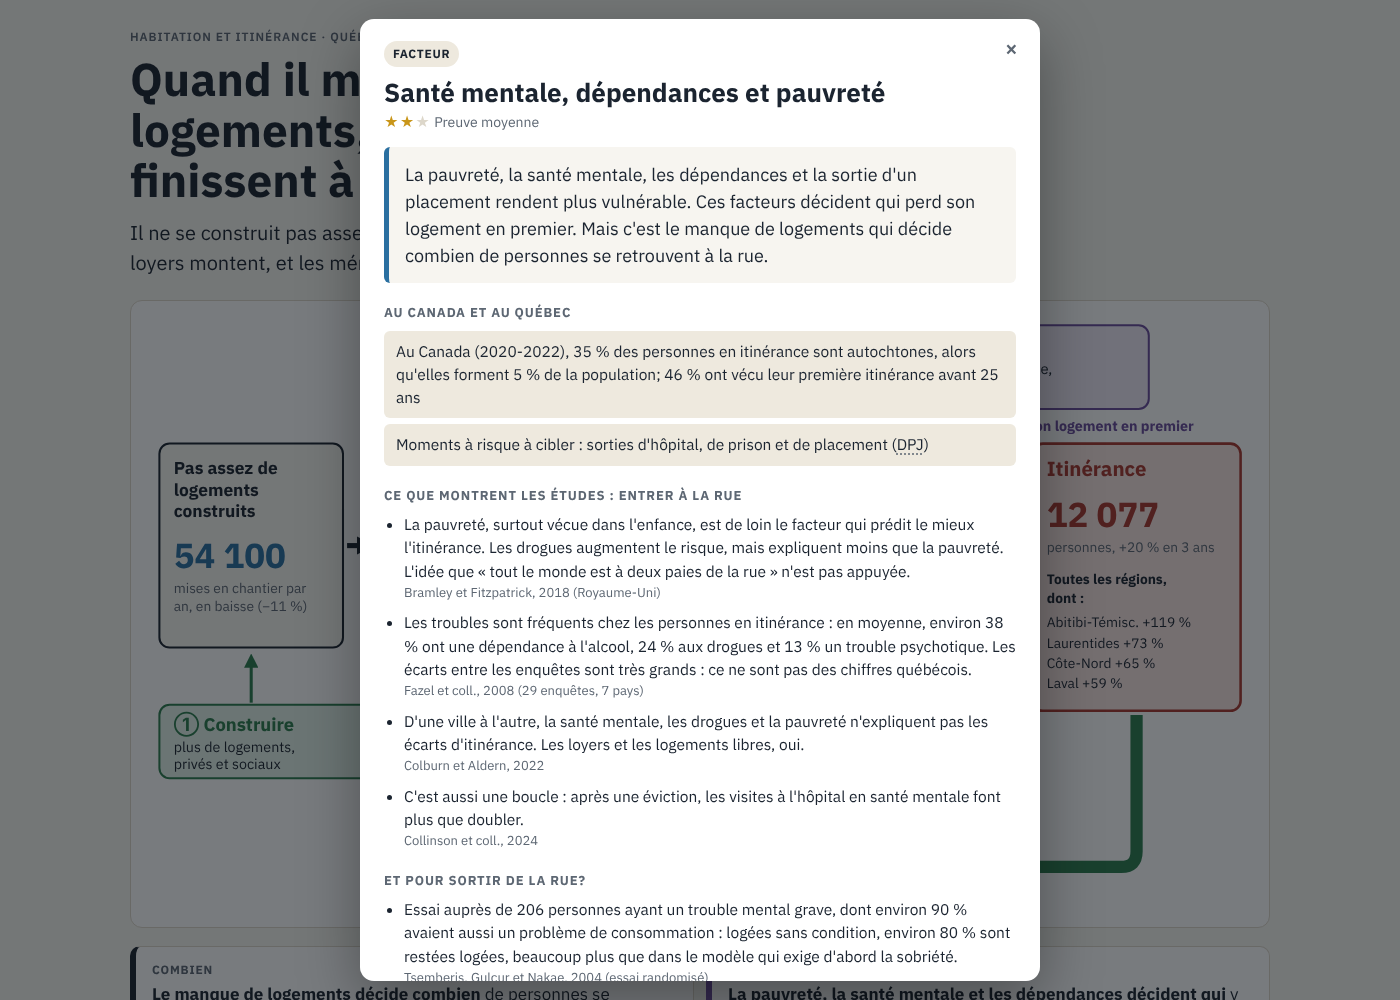
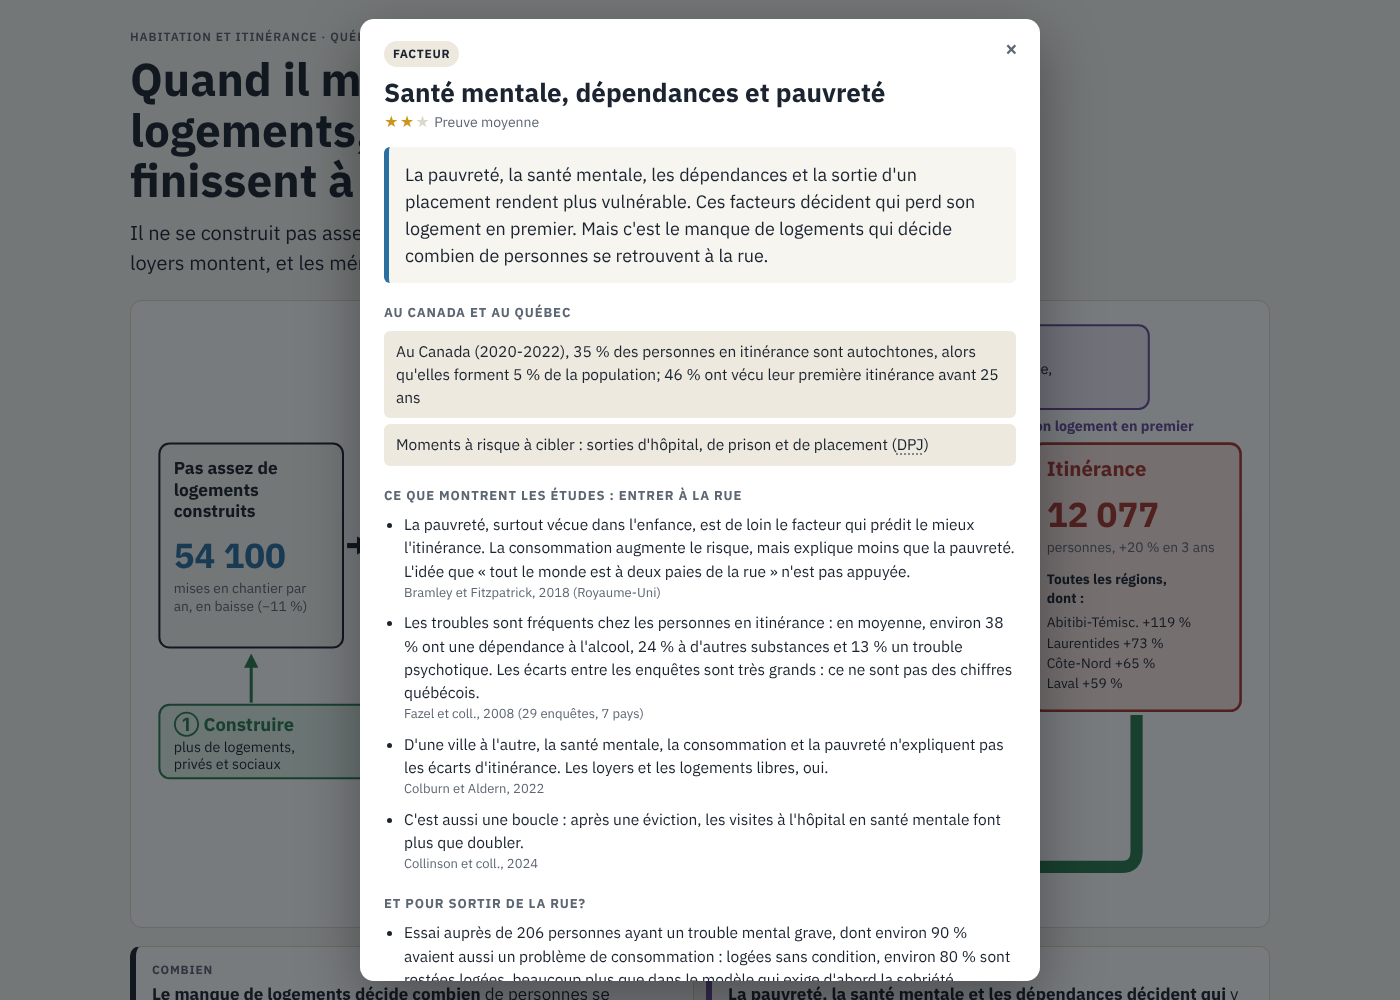
Remplacer « drogues » par « consommation » dans les fiches
Claude-Session: https://claude.ai/code/session_01BzgsPdMM9i4cuZ6TsAMrPi

Changed region(s): [[0.2764, 0.62, 0.7371, 0.992], [0.3686, 0.527, 0.7371, 0.558]]

diff --git a/index.html b/index.html
@@ -322,7 +322,7 @@ fcb:{kind:"Lien",title:"Ne peut plus acheter, reste locataire",stars:0,
  etudes:[["À vérifier par une recherche ciblée si ce lien devient important pour la décision.","—"]],
  src:"Aucune dans les études recensées",links:["prop","libres"]},
 f5:{kind:"Étape 3",title:"Les loyers montent, l'itinérance aussi",stars:2,
- clair:"Pourquoi une région a-t-elle plus d'itinérance qu'une autre? Surtout à cause du prix des loyers et du manque de logements libres, plus que de la drogue, de la santé mentale ou du climat.",
+ clair:"Pourquoi une région a-t-elle plus d'itinérance qu'une autre? Surtout à cause du prix des loyers et du manque de logements libres, plus que de la consommation, de la santé mentale ou du climat.",
  qc:["Logement de 2 chambres : 1 273 $ par mois en moyenne; +7,2 % en un an pour les mêmes logements","Hausse de loyer suggérée par le TAL pour 2026-2027 : 3,1 % (nouvelle formule)","Là où il reste moins de 1 % de logements libres (Abitibi-Témiscamingue, Côte-Nord), l'itinérance a bondi de 119 % et de 65 %"],
  etudes:[["Chaque hausse de 100 $ du loyer médian va avec environ 15 % plus d'itinérance dans les grandes villes américaines, et 39 % en banlieue et en région.","Byrne et coll., 2013"],["Un rapport du Congrès américain arrive à environ +9 % pour chaque 100 $ de loyer de plus.","GAO, 2020"],["Détroit, une ville pauvre, a moins d'itinérance que Seattle, une ville chère.","Colburn et Aldern, 2022"],["Ce sont des comparaisons entre villes et régions : un lien solide, mais pas une preuve de cause à effet.","—"]],
  src:"SCHL; TAL; Byrne et coll. 2013; GAO 2020; Colburn & Aldern 2022",links:["libres","f6","rue","aide","control"]},
@@ -403,13 +403,13 @@ taux:{kind:"Solution",cat:"no",title:"Baisser les taux d'intérêt",stars:2,shor
 camps:{kind:"Solution",cat:"no",title:"Démanteler les campements",stars:1,short:"Déplace les gens sans les loger.",
  clair:"Déplacer les gens sans leur offrir de logement ne les sort pas de la rue. Une étude projette même une hausse des décès.",
  qc:["1 887 personnes dehors ou en campement (16 %), la forme d'itinérance qui augmente le plus vite"],
- etudes:[["Selon une projection dans 23 villes américaines, les déplacements forcés pourraient causer de 15 à 25 % des décès sur 10 ans chez les personnes sans abri qui s'injectent des drogues. C'est une projection, pas une observation.","Barocas et coll., 2023, JAMA"]],
+ etudes:[["Selon une projection dans 23 villes américaines, les déplacements forcés pourraient causer de 15 à 25 % des décès sur 10 ans chez les personnes sans abri qui consomment par injection. C'est une projection, pas une observation.","Barocas et coll., 2023, JAMA"]],
  src:"Barocas et coll. 2023; MSSS 2025",links:["rue","f8"]},
 vuln:{kind:"Facteur",title:"Santé mentale, dépendances et pauvreté",stars:2,qcTitle:"Au Canada et au Québec",
  clair:"La pauvreté, la santé mentale, les dépendances et la sortie d'un placement rendent plus vulnérable. Ces facteurs décident qui perd son logement en premier. Mais c'est le manque de logements qui décide combien de personnes se retrouvent à la rue.",
  qc:["Au Canada (2020-2022), 35 % des personnes en itinérance sont autochtones, alors qu'elles forment 5 % de la population; 46 % ont vécu leur première itinérance avant 25 ans","Moments à risque à cibler : sorties d'hôpital, de prison et de placement (DPJ)"],
- etudes:[["La pauvreté, surtout vécue dans l'enfance, est de loin le facteur qui prédit le mieux l'itinérance. Les drogues augmentent le risque, mais expliquent moins que la pauvreté. L'idée que « tout le monde est à deux paies de la rue » n'est pas appuyée.","Bramley et Fitzpatrick, 2018 (Royaume-Uni)"],["Les troubles sont fréquents chez les personnes en itinérance : en moyenne, environ 38 % ont une dépendance à l'alcool, 24 % aux drogues et 13 % un trouble psychotique. Les écarts entre les enquêtes sont très grands : ce ne sont pas des chiffres québécois.","Fazel et coll., 2008 (29 enquêtes, 7 pays)"],["D'une ville à l'autre, la santé mentale, les drogues et la pauvreté n'expliquent pas les écarts d'itinérance. Les loyers et les logements libres, oui.","Colburn et Aldern, 2022"],["C'est aussi une boucle : après une éviction, les visites à l'hôpital en santé mentale font plus que doubler.","Collinson et coll., 2024"]],
- sortie:[["Essai auprès de 206 personnes ayant un trouble mental grave, dont environ 90 % avaient aussi un problème de consommation : logées sans condition, environ 80 % sont restées logées, beaucoup plus que dans le modèle qui exige d'abord la sobriété.","Tsemberis, Gulcur et Nakae, 2004 (essai randomisé)"],["Projet Chez Soi (tous les participants avaient un trouble mental grave) : 62 % logés de façon stable, contre 31 % avec les services habituels.","Goering et coll., 2014"],["Le logement seul ne change pas la consommation de drogues ni les symptômes psychiatriques : il faut un accompagnement qui dure.","Tsemberis et coll., 2004; Baxter et coll., 2019"],["Un accompagnement intensif après une hospitalisation en psychiatrie fait passer le risque de se retrouver à la rue de 19 % à 5 %.","Herman et coll., 2011"]],
+ etudes:[["La pauvreté, surtout vécue dans l'enfance, est de loin le facteur qui prédit le mieux l'itinérance. La consommation augmente le risque, mais explique moins que la pauvreté. L'idée que « tout le monde est à deux paies de la rue » n'est pas appuyée.","Bramley et Fitzpatrick, 2018 (Royaume-Uni)"],["Les troubles sont fréquents chez les personnes en itinérance : en moyenne, environ 38 % ont une dépendance à l'alcool, 24 % à d'autres substances et 13 % un trouble psychotique. Les écarts entre les enquêtes sont très grands : ce ne sont pas des chiffres québécois.","Fazel et coll., 2008 (29 enquêtes, 7 pays)"],["D'une ville à l'autre, la santé mentale, la consommation et la pauvreté n'expliquent pas les écarts d'itinérance. Les loyers et les logements libres, oui.","Colburn et Aldern, 2022"],["C'est aussi une boucle : après une éviction, les visites à l'hôpital en santé mentale font plus que doubler.","Collinson et coll., 2024"]],
+ sortie:[["Essai auprès de 206 personnes ayant un trouble mental grave, dont environ 90 % avaient aussi un problème de consommation : logées sans condition, environ 80 % sont restées logées, beaucoup plus que dans le modèle qui exige d'abord la sobriété.","Tsemberis, Gulcur et Nakae, 2004 (essai randomisé)"],["Projet Chez Soi (tous les participants avaient un trouble mental grave) : 62 % logés de façon stable, contre 31 % avec les services habituels.","Goering et coll., 2014"],["Le logement seul ne change pas la consommation ni les symptômes psychiatriques : il faut un accompagnement qui dure.","Tsemberis et coll., 2004; Baxter et coll., 2019"],["Un accompagnement intensif après une hospitalisation en psychiatrie fait passer le risque de se retrouver à la rue de 19 % à 5 %.","Herman et coll., 2011"]],
  src:"Bramley & Fitzpatrick 2018; Fazel et coll. 2008; Colburn & Aldern 2022; Collinson et coll. 2024; Tsemberis et coll. 2004; Goering et coll. 2014; Baxter et coll. 2019; Herman et coll. 2011; Infrastructure Canada, dénombrements 2020-2022",links:["f6","f8","prevent","rue"]}
 };
 const COLS={go:["build","prevent","f8","zonage","place"],mid:["aide","control","subv","equity"],no:["taux","camps"]};
